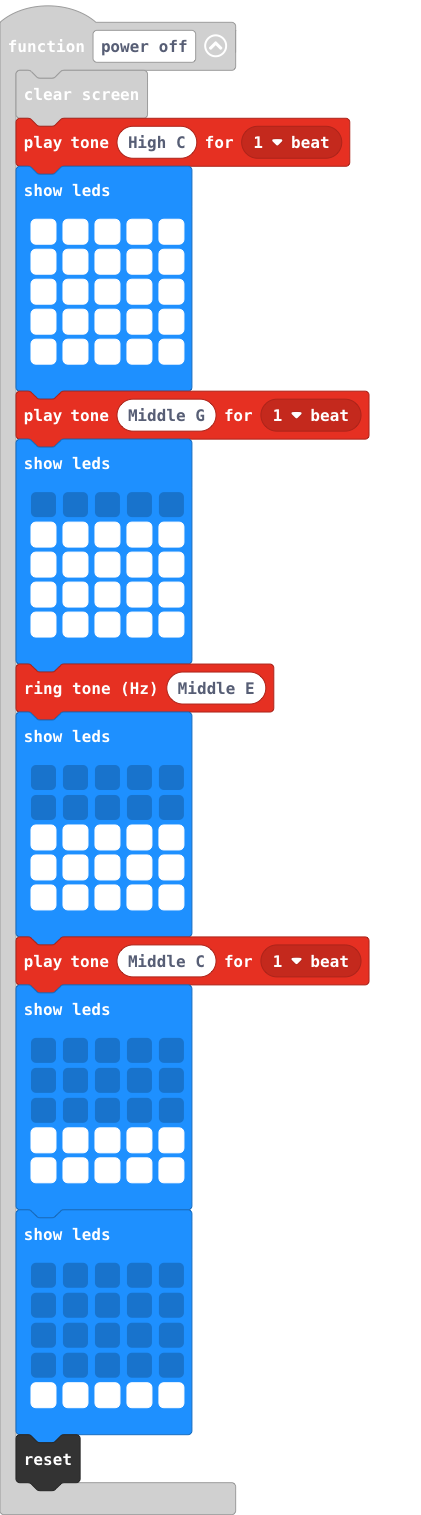
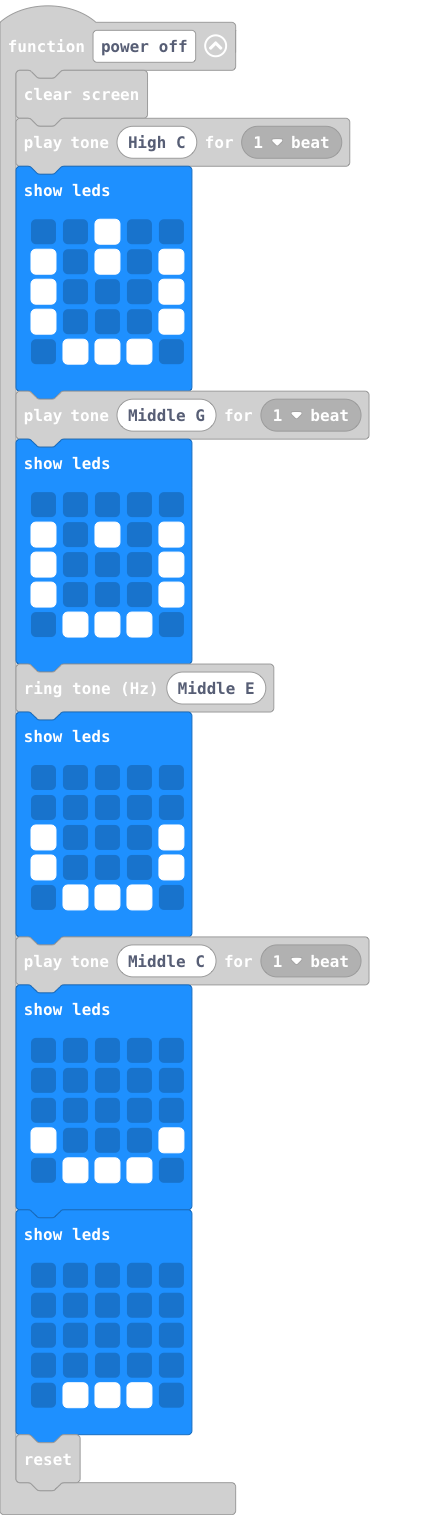
Update main.blocks, main.ts

diff --git a/main.ts b/main.ts
@@ -106,42 +106,42 @@ function power_off () {
     basic.clearScreen()
     music.playTone(523, music.beat(BeatFraction.Whole))
     basic.showLeds(`
-        # # # # #
-        # # # # #
-        # # # # #
-        # # # # #
-        # # # # #
+        . . # . .
+        # . # . #
+        # . . . #
+        # . . . #
+        . # # # .
         `)
     music.playTone(392, music.beat(BeatFraction.Whole))
     basic.showLeds(`
         . . . . .
-        # # # # #
-        # # # # #
-        # # # # #
-        # # # # #
+        # . # . #
+        # . . . #
+        # . . . #
+        . # # # .
         `)
     music.ringTone(330)
     basic.showLeds(`
         . . . . .
         . . . . .
-        # # # # #
-        # # # # #
-        # # # # #
+        # . . . #
+        # . . . #
+        . # # # .
         `)
     music.playTone(262, music.beat(BeatFraction.Whole))
     basic.showLeds(`
         . . . . .
         . . . . .
         . . . . .
-        # # # # #
-        # # # # #
+        # . . . #
+        . # # # .
         `)
     basic.showLeds(`
         . . . . .
         . . . . .
         . . . . .
         . . . . .
-        # # # # #
+        . # # # .
         `)
     control.reset()
 }
